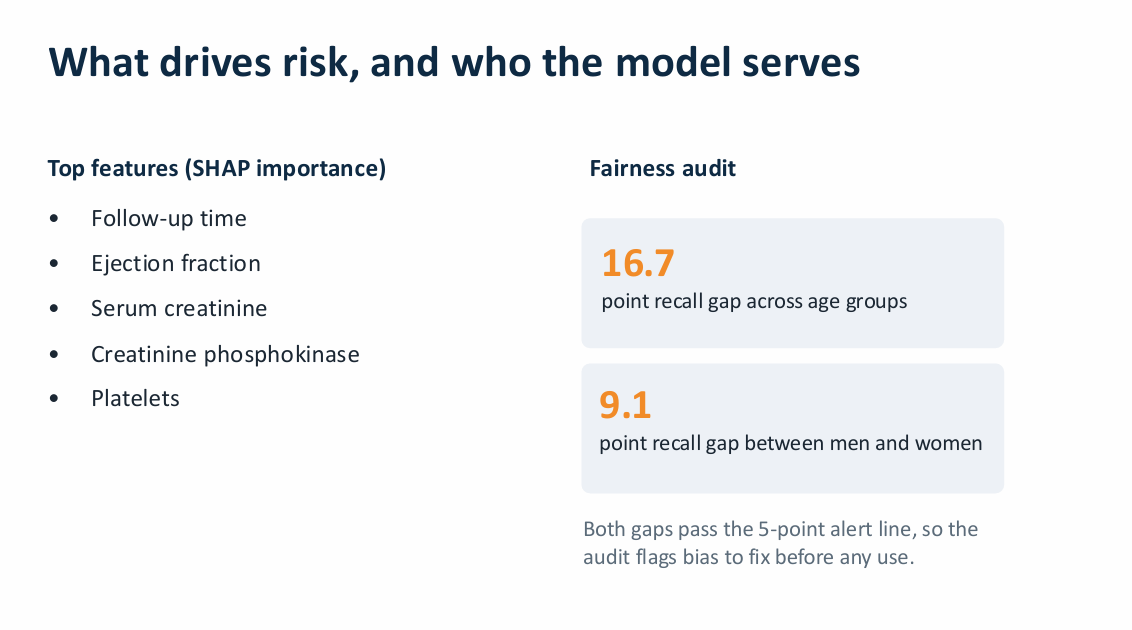
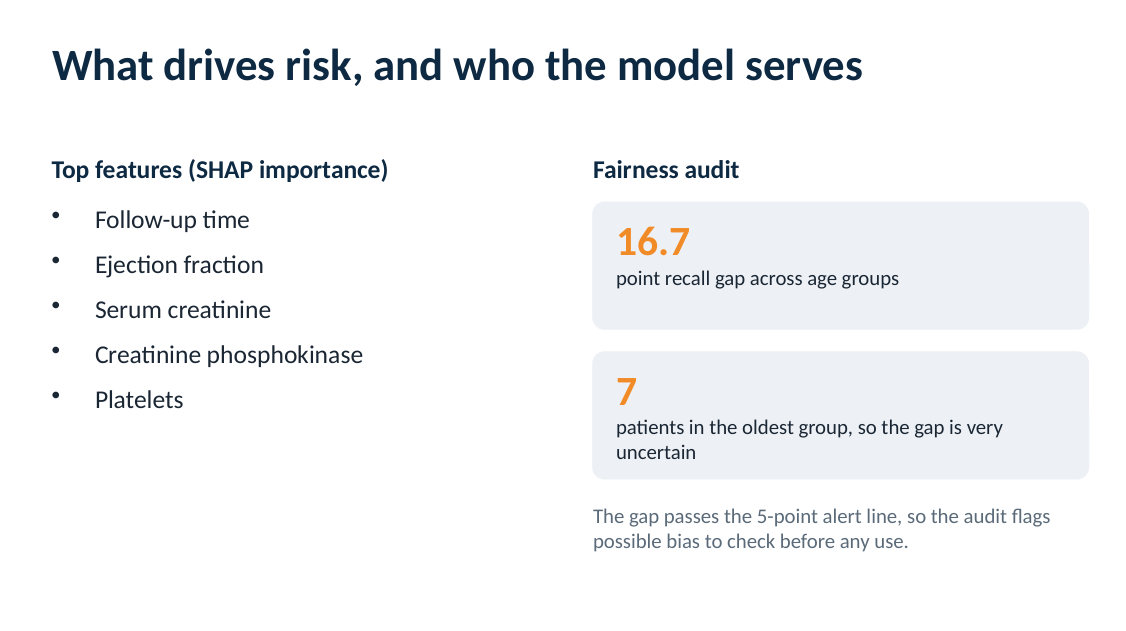
edit

diff --git a/heart-failure-risk-prediction/README.md b/heart-failure-risk-prediction/README.md
@@ -16,8 +16,8 @@
 | **Industry** | Healthcare analytics |
 | **Role** | Data Science project |
 | **Tools** | Python (pandas, NumPy, scikit-learn, XGBoost, SHAP, matplotlib, seaborn) |
-| **Deliverables** | Analysis notebook, summary deck (PowerPoint and PDF) |
-| **Data & Privacy** | A public clinical dataset of 299 heart failure patients. The data file is not published. |
+| **Deliverables** | Analysis notebook, summary deck |
+| **Data & Privacy** | A public clinical dataset of 299 heart failure patients. |
 
 ---
 
@@ -93,12 +93,10 @@ In a clinical setting the two kinds of mistake are not equal. **Missing a high-r
 | File | What it is |
 |---|---|
 | [`heart_failure_risk_prediction.ipynb`](code/heart_failure_risk_prediction.ipynb) | Full analysis: exploration, models, threshold tuning, SHAP, fairness audit |
-| [`Heart_Failure_Risk_Prediction_Summary.pptx`](reports/Heart_Failure_Risk_Prediction_Summary.pptx) | Summary deck |
-| [`Heart_Failure_Risk_Prediction_Summary.pdf`](reports/Heart_Failure_Risk_Prediction_Summary.pdf) | Summary deck as a PDF |
+| [`Heart_Failure_Risk_Prediction_Summary.pdf`](reports/Heart_Failure_Risk_Prediction_Summary.pdf) | Summary deck |
 
 ## 9. What to Know Before Using This
 
 - The notebook also contains gender and ethnicity groups that were generated at random for demonstration, so only the age-group results describe real patients.
 - This is a learning and portfolio project on a small public dataset. It is **not a medical device** and must not be used for clinical decisions.
 - Drift monitoring, hospital record integration, and shadow mode are demonstrations, not live systems.
-- The data file is not published, so the notebook is shown for reference and cannot be re-run as is.
